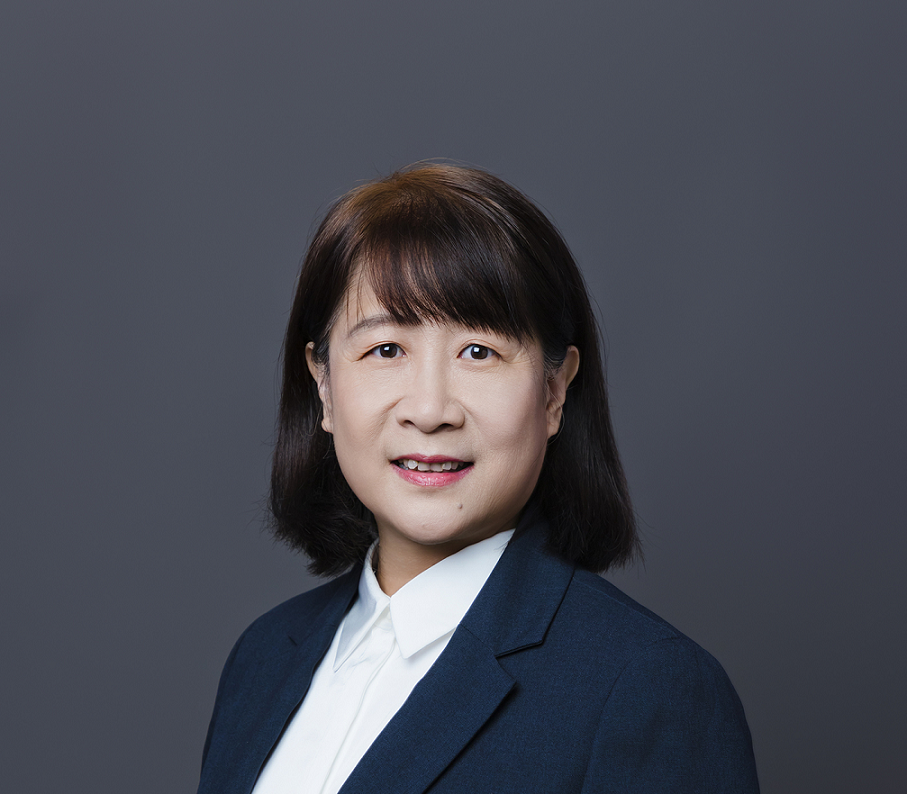
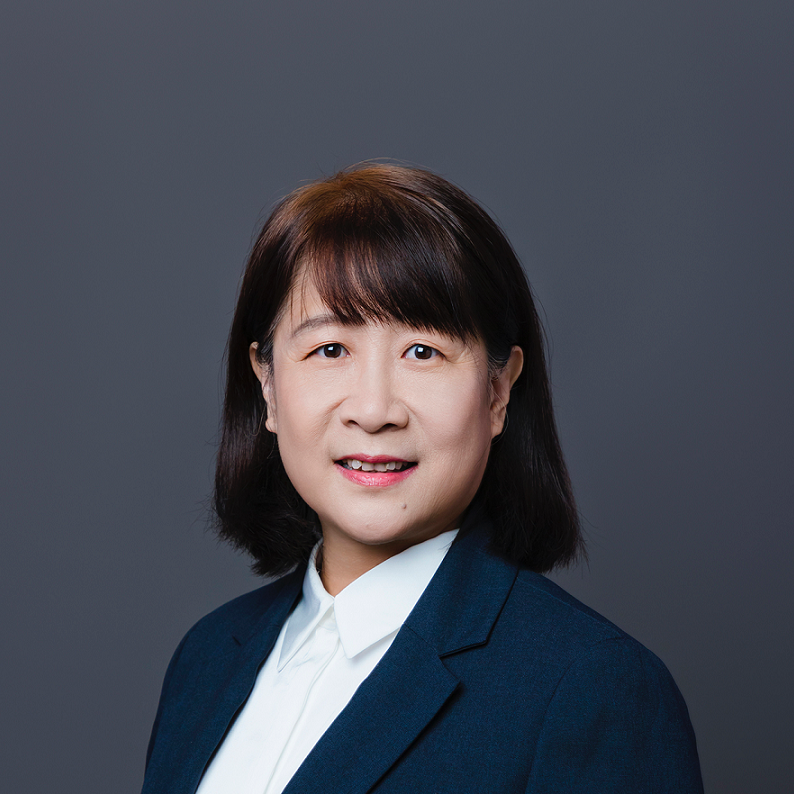
profile adjusted

diff --git a/index.html b/index.html
@@ -46,8 +46,8 @@
       <div class="columns is-centered">
         <div class="column has-text-centered">
           <h1 class="title is-2 publication-title">
-              <span style="font-size: 80%">ACL 2023 Tutorial:</span><br />
-              Retrieval-based Language Models and Applications
+              <span style="font-size: 80%">COLING 2025 Tutorial:</span><br />
+              Speculative Decoding for Efficient LLM Inference
             </h1>
 
           <div class="is-size-5 publication-authors">
@@ -55,29 +55,21 @@
               <table>
             <tr>
                 <!-- <th scope="row">TR-7</th> -->
-                <td width="25%" style="text-align: center; padding: 3px"><img width="150px" height="150px" src="static/imgs/profile_heming.jpg"></td>
-                <td width="25%" style="text-align: center; padding: 3px"><img width="150px" height="150px" src="static/imgs/profile_yongqi.jpg"></td>
-                <td width="25%" style="text-align: center; padding: 3px"><img width="150px" height="150px" src="static/imgs/profile_cunxiao.jpeg"></td>
-                <td width="25%" style="text-align: center; padding: 3px"><img width="150px" height="150px" src="static/imgs/profile_qian.png"></td>
-                <td width="25%" style="text-align: center; padding: 3px"><img width="150px" height="150px" src="static/imgs/profile_maggie.jpg"></td>
+                <td width="20%" style="text-align: center; padding: 3px"><img width="150px" height="150px" src="static/imgs/profile_heming.jpg"></td>
+                <td width="20%" style="text-align: center; padding: 3px"><img width="150px" height="150px" src="static/imgs/profile_yongqi.jpg"></td>
+                <td width="20%" style="text-align: center; padding: 3px"><img width="150px" height="150px" src="static/imgs/profile_cunxiao.jpg"></td>
+                <td width="20%" style="text-align: center; padding: 3px"><img width="150px" height="150px" src="static/imgs/profile_qian.png"></td>
+                <td width="20%" style="text-align: center; padding: 3px"><img width="150px" height="150px" src="static/imgs/profile_maggie.jpg"></td>
             </tr>
               <tr>
                 <!-- <th scope="row">TR-7</th> -->
-                <td width="25%" style="text-align: center"><a href="https://hemingkx.github.io/" style="border-radius: 50%">Heming Xia</a><sup>1</sup>,</td>
-                <td width="25%" style="text-align: center"><a href="https://liyongqi67.github.io/" style="border-radius: 50%">Yongqi Li</a><sup>1</sup>,</td>
-                <td width="25%" style="text-align: center"><a href="https://nonvolatilememory.github.io/" style="border-radius: 50%">Cunxiao Du</a><sup>2</sup>,</td>
-                <td width="25%" style="text-align: center"><a href="https://siviltaram.github.io/" style="border-radius: 50%">Qian Liu</a><sup>2</sup></td>
-                <td width="25%" style="text-align: center"><a href="https://www4.comp.polyu.edu.hk/~cswjli/" style="border-radius: 50%">Wenjie Li</a><sup>2</sup></td>
+                <td width="20%" style="text-align: center"><a href="https://hemingkx.github.io/" style="border-radius: 50%">Heming Xia</a><sup>1</sup>,</td>
+                <td width="20%" style="text-align: center"><a href="https://liyongqi67.github.io/" style="border-radius: 50%">Yongqi Li</a><sup>1</sup>,</td>
+                <td width="20%" style="text-align: center"><a href="https://nonvolatilememory.github.io/" style="border-radius: 50%">Cunxiao Du</a><sup>2</sup>,</td>
+                <td width="20%" style="text-align: center"><a href="https://siviltaram.github.io/" style="border-radius: 50%">Qian Liu</a><sup>2</sup></td>
+                <td width="20%" style="text-align: center"><a href="https://www4.comp.polyu.edu.hk/~cswjli/" style="border-radius: 50%">Wenjie Li</a><sup>2</sup></td>
               </tr>
             </table>
-              <!-- <a href="https://akariasai.github.io/">Akari Asai</a><sup>1</sup>,</span>
-            <span class="author-block">
-              <a href="https://shmsw25.github.io/">Sewon Min</a><sup>1</sup>,</span>
-            <span class="author-block">
-              <a href="https://www.cs.princeton.edu/~zzhong/">Zexuan Zhong</a><sup>2</sup>,
-            </span>
-            <span class="author-block">
-              <a href="https://www.cs.princeton.edu/~danqic/">Danqi Chen</a><sup>2</sup>, -->
             </span>
           </div>
           <div class="is-size-6 publication-authors">
